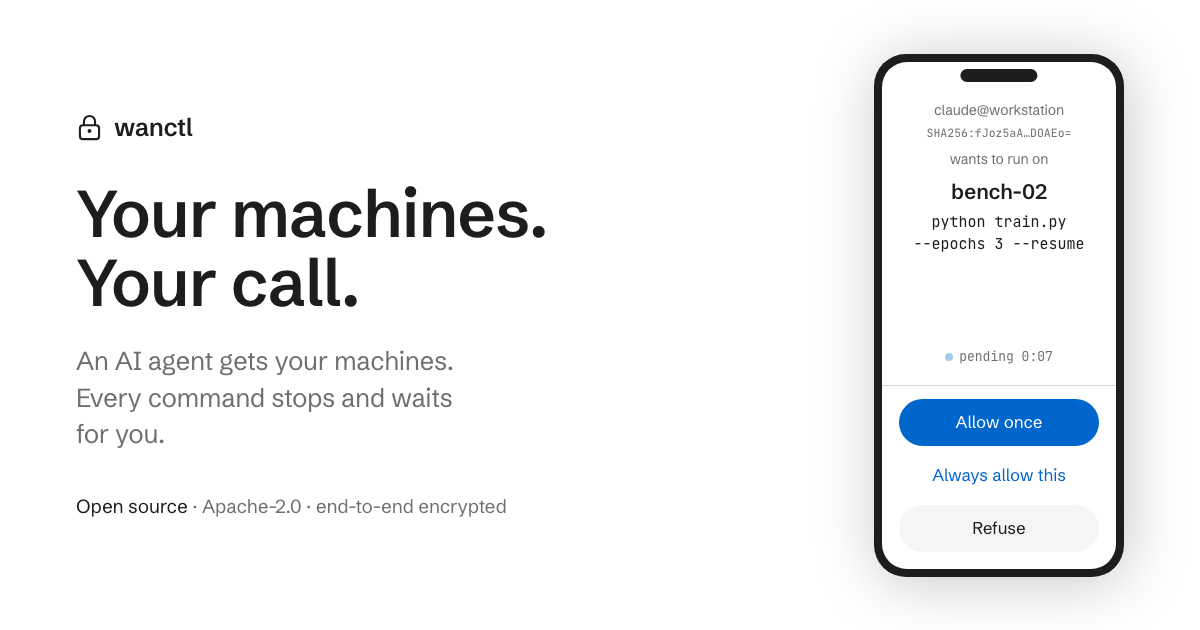
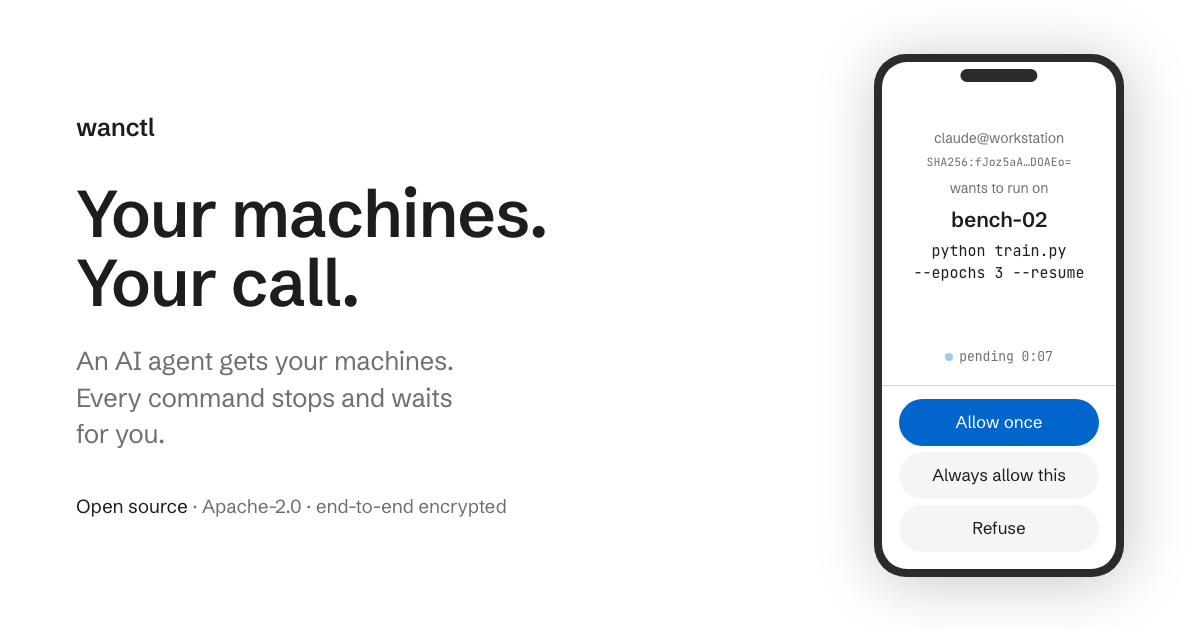
site: one proposition, two doors, and no padlock
Three things the owner asked for.

**Weight.** Every section carried 88px of vertical padding, so the product's
actual proposition — nothing runs until you say yes — got exactly as much
visual budget as a list of six machines. Three tiers now: the proposition takes
roughly 1.4x the space and a 52px heading, the objection-killer stays as it
was, and the inventory drops to 60px and a 32px heading.

The proposition also earned something to say with the extra room. Underneath
it, spanning both columns, is the rule the hero demo has been acting out on
every single run and the page had never once stated: a rule covers a command,
not a machine. Sign `python train.py --epochs 3 --resume --seed 7` and it runs
without asking; ask for `nvidia-smi` and it comes back to you. Two columns of
text cannot fill 1440px. That can.

**Two doors.** A visitor who installs the binary had nowhere to point it. The
hosted relay and a compose file, side by side — a genuine 50/50, because the
two options really are equivalent, and because it is a third shape that stops
the alternating rows from running on into a metronome. The hosted door
deliberately has no application form: that flow is issue #9, and whether
applications are public is the owner's call, not something to settle by
building one door handle. The address is its handle for now.

**The mark.** The padlock is gone — the most obvious icon a security product
can reach for. Three replacements were drawn and rendered at 16 through 72
[…]

Changed region(s): [[0.7708, 0.1508, 0.8942, 0.4524], [0.7708, 0.7238, 0.8942, 0.7841], [0.0617, 0.181, 0.1542, 0.2413]]

diff --git a/site/assets/app.css b/site/assets/app.css
@@ -96,6 +96,17 @@ a:hover{text-decoration:underline}
 /* 首屏顶上已经有导航条了，不需要再来一整份上留白 ——
    省下来的高度给舞台，好让手机上那个蓝按钮落在折线以上（它是要人去点的东西）。 */
 .tile.hero{padding-top:clamp(32px,3.6vw,52px)}
+
+/* 三档配额，不是五段等权。之前每一段的上下内边距都是 88px，于是产品的命题
+   （「你不点头，什么都不会跑」）和一张设备清单拿到完全相同的视觉权重。
+     chapter 命题   —— 双倍空间，标题接近 hero 尺度，下面还有一条通栏的收尾
+     （默认）二级   —— 消解疑虑的那一屏，维持原样
+     minor   清单   —— 压紧，标题降一档；它只是在说「有哪些机器」 */
+.tile.chapter{padding-top:clamp(72px,8.6vw,124px);padding-bottom:clamp(58px,6.4vw,88px)}
+.tile.chapter h2{font-size:clamp(34px,4.8vw,52px);line-height:1.06;letter-spacing:-.3px}
+.tile.minor{padding:clamp(38px,4.4vw,60px) var(--pad)}
+.tile.minor h2{font-size:clamp(24px,2.6vw,32px)}
+.tile.minor .lead{font-size:clamp(17px,1.35vw,18px);max-width:36ch}
 .tile.dark{background:var(--dark);color:var(--on-dark)}
 .tile.grey{background:var(--canvas-2)}
 
@@ -129,9 +140,8 @@ h2{
   border-bottom:1px solid var(--hairline);
   font-size:14px;letter-spacing:-.2px;
 }
-.nav .brand{display:flex;align-items:center;gap:8px;color:var(--ink);font-weight:600;font-size:17px}
+.nav .brand{color:var(--ink);font-weight:600;font-size:17px;letter-spacing:-.4px;flex:none}
 .nav .brand:hover{text-decoration:none}
-.nav .brand svg{display:block;flex:none}
 .nav .links{display:flex;gap:clamp(13px,2vw,26px);margin-left:auto}
 .nav .links a{color:var(--ink-2);white-space:nowrap}
 .nav .links a:hover{color:var(--ink);text-decoration:none}
@@ -348,6 +358,35 @@ h2{
 .ledger .cap{font-size:14px;color:var(--ink-2)}
 .ledger code{font-size:15px;color:var(--ink);white-space:pre;overflow-x:auto;display:block;min-width:0}
 
+/* ── 章节收尾：通栏的两行，讲策略的语义 ──────────────────────────────
+   两列文字撑不满 1440，但这条能 —— 而且它讲的是首屏 demo 每一轮都在演、
+   页面上却从没写出来的那件事。 */
+.lesson{
+  margin-top:clamp(30px,3.2vw,44px);padding-top:clamp(22px,2.3vw,30px);
+  border-top:1px solid rgba(255,255,255,.14);grid-column:1 / -1;
+}
+.lesson .claim{margin:0 0 20px;font-size:clamp(19px,1.9vw,24px);font-weight:600;
+               letter-spacing:-.374px;color:var(--on-dark)}
+/* 表格自己收窄。撑满 1440 会把判定推到 600px 开外，
+   于是刚在整页上治好的「两边空」在这一小块里原样复发。 */
+.lesson ul{list-style:none;margin:0;padding:0;max-width:860px}
+.lesson li{
+  display:flex;align-items:baseline;gap:clamp(14px,2vw,28px);
+  padding:13px 0;font-size:15px;
+}
+.lesson li+li{border-top:1px solid rgba(255,255,255,.09)}
+.lesson .k{flex:0 0 clamp(88px,9vw,132px);color:var(--on-dark-2)}
+.lesson code{flex:1 1 auto;min-width:0;color:var(--on-dark);letter-spacing:0;
+             overflow-wrap:break-word}
+.lesson .v{flex:0 0 auto;color:var(--on-dark-2);text-align:right;white-space:nowrap}
+
+@media (max-width:760px){
+  .lesson li{flex-wrap:wrap;gap:4px 14px;padding:12px 0}
+  .lesson .k{flex:0 0 auto}
+  .lesson code{flex:1 0 100%;order:3;font-size:13.5px}
+  .lesson .v{margin-left:auto}
+}
+
 /* ── 安装 ──────────────────────────────────────────────────────────── */
 /* 分段控件：选中项填蓝。蓝是这套系统里唯一的「这个是活的」信号，
    而这里选中与否直接决定下面那条命令，含糊不得。 */
@@ -389,8 +428,31 @@ h2{
   line-height:1.45;text-wrap:pretty;
 }
 
+/* ── 两扇门 ────────────────────────────────────────────────────────
+   不用卡片：那道投影按 DESIGN.md 只归「产品渲染」。两扇门用发丝线分隔，
+   读起来像一份规格表，而不是两张促销卡。 */
+#relay .say{max-width:46rem}
+#relay .lead{margin-left:0;max-width:52ch}
+.doors{
+  display:grid;grid-template-columns:repeat(2,minmax(0,1fr));
+  gap:clamp(30px,4.4vw,72px);margin-top:clamp(34px,4vw,56px);
+}
+.door{border-top:1px solid var(--hairline);padding-top:20px;display:flex;flex-direction:column}
+.door .k{font-size:14px;color:var(--ink-2)}
+.door .addr{margin:9px 0 0;font-size:clamp(19px,1.7vw,22px);letter-spacing:-.2px;color:var(--ink)}
+.door .addr a{color:var(--ink)}
+.door .addr a:hover{color:var(--blue);text-decoration:none}
+.door .d{margin:12px 0 0;font-size:16px;line-height:1.5;color:var(--ink-2);max-width:38ch}
+.door .link-arrow{margin-top:18px;align-self:flex-start;font-size:16px}
+
+@media (max-width:760px){
+  .doors{grid-template-columns:minmax(0,1fr);gap:26px}
+  #relay .say{max-width:none}
+}
+
 /* ── 页脚 ──────────────────────────────────────────────────────────── */
-.foot{background:var(--canvas-2);padding:40px var(--pad) 44px;font-size:14px;
+.foot{background:var(--canvas);border-top:1px solid var(--hairline);
+      padding:40px var(--pad) 44px;font-size:14px;
       color:var(--ink-2);line-height:1.6}
 /* 页脚链接跟随导航条的语法（灰→黑），不是蓝：它们是路标，不是号召 */
 .foot .flinks{display:flex;flex-wrap:wrap;gap:9px 26px;margin-bottom:22px}

diff --git a/site/index.html b/site/index.html
@@ -30,14 +30,9 @@
 <body>
 
 <header class="nav">
-  <a class="brand" href="/">
-    <svg width="20" height="20" viewBox="0 0 22 22" aria-hidden="true">
-      <path d="M6.5 9.2V6.1a4.5 4.5 0 0 1 9 0v3.1" fill="none" stroke="currentColor" stroke-width="1.7"/>
-      <rect x="3.2" y="9.2" width="15.6" height="11.3" rx="2.4" fill="none" stroke="currentColor" stroke-width="1.7"/>
-      <circle cx="11" cy="13.9" r="1.6" fill="currentColor"/>
-    </svg>
-    wanctl
-  </a>
+  <!-- 字标单独站着。之前那把挂锁是安全类产品最不动脑子的选择，
+       换成另一个弱符号不如把它减掉 —— 字标本身已经有形。 -->
+  <a class="brand" href="/">wanctl</a>
   <nav class="links">
     <a href="#decide"  data-en="How it works" data-zh="怎么工作">How it works</a>
     <a href="#fleet" data-opt data-en="Devices" data-zh="设备">Devices</a>
@@ -84,7 +79,7 @@
   </section>
 
   <!-- 深色屏：审批凭证。主体在右 —— 那是「你」的回答，落在首屏手机所在的那一侧 -->
-  <section class="tile dark split" id="decide">
+  <section class="tile dark split chapter" id="decide">
     <div class="say">
     <h2 data-en="Nothing runs until you say yes."
         data-zh="你不点头，什么都不会跑。">Nothing runs until you say yes.</h2>
@@ -104,11 +99,31 @@
       <div class="body" id="cred"></div>
     </div>
     </div>
+
+    <!-- 通栏收尾：这条是整个产品最常被误解的地方，而且首屏 demo 每次都在演它，
+         之前页面上却一个字都没写。移植自 internal/policy 的 matchCommand。 -->
+    <div class="lesson">
+      <p class="claim"
+         data-en="A rule covers a command, not a machine."
+         data-zh="规则管的是一条命令，不是一台机器。">A rule covers a command, not a machine.</p>
+      <ul>
+        <li>
+          <span class="k" data-en="Signed once" data-zh="签过一次">Signed once</span>
+          <code class="mono">python train.py --epochs 3 --resume --seed 7</code>
+          <span class="v" data-en="runs without asking" data-zh="以后直接放行">runs without asking</span>
+        </li>
+        <li>
+          <span class="k" data-en="Anything else" data-zh="换成别的">Anything else</span>
+          <code class="mono">nvidia-smi --query-gpu=memory.used --format=csv</code>
+          <span class="v" data-en="asks you again" data-zh="还是会来问你">asks you again</span>
+        </li>
+      </ul>
+    </div>
   </section>
 
   <!-- 浅灰屏：设备列表。主体在左 —— 那是 wanctl peers 的输出，
        控制端看的东西，落在首屏笔记本所在的那一侧 -->
-  <section class="tile grey split flip" id="fleet">
+  <section class="tile grey split flip minor" id="fleet">
     <div class="say">
     <h2 data-en="Your fleet, in one list." data-zh="你的机器，一张表看完。">Your fleet, in one list.</h2>
     <p class="lead"
@@ -209,6 +224,47 @@
       <button id="copy" type="button" data-en="Copy" data-zh="复制">Copy</button>
     </div>
     <p class="note" id="srcnote">Straight from the GitHub release.</p>
+  </section>
+
+  <!-- 浅灰屏：装完连到哪儿。两扇门是真正等价的两个选择，所以这里用一次
+       诚实的 50/50 —— 而且它和上面的交替两栏是不同的形状，节奏不会延续成节拍器。 -->
+  <section class="tile grey" id="relay">
+    <div class="say">
+      <h2 data-en="One relay in the middle. Ours, or yours."
+          data-zh="中间那台 relay。我们的，或者你自己的。">One relay in the middle. Ours, or yours.</h2>
+      <p class="lead"
+         data-en="Every device dials one relay, and it never sees inside your sessions either way. We run one. The whole thing is also a compose file."
+         data-zh="每台设备都拨向一台 relay，而无论用哪台，它都看不见你会话的内容。我们跑了一台；整套东西也就是一个 compose 文件。">
+        Every device dials one relay, and it never sees inside your sessions
+        either way. We run one. The whole thing is also a compose file.
+      </p>
+    </div>
+
+    <div class="doors">
+      <div class="door">
+        <span class="k" data-en="Hosted" data-zh="我们跑的那台">Hosted</span>
+        <p class="addr mono"><a href="https://wanctl.z10.dev">wanctl.z10.dev</a></p>
+        <p class="d"
+           data-en="Invite-only while it is one person&#39;s server rather than a service. No SLA, no support queue, no charge."
+           data-zh="它现在还是一个人的服务器，不是一项服务，所以只能邀请进。没有 SLA，没有工单，也不收钱。">
+          Invite-only while it is one person's server rather than a service.
+          No SLA, no support queue, no charge.
+        </p>
+      </div>
+
+      <div class="door">
+        <span class="k" data-en="Your own" data-zh="你自己的那台">Your own</span>
+        <p class="addr mono">docker compose up</p>
+        <p class="d"
+           data-en="Relay, portal and Postgres in one compose file. Nothing about your fleet ever reaches a machine you do not own."
+           data-zh="relay、门户和 Postgres 在同一个 compose 文件里。你的设备信息不会到达任何一台不属于你的机器。">
+          Relay, portal and Postgres in one compose file. Nothing about your
+          fleet ever reaches a machine you do not own.
+        </p>
+        <a class="link-arrow" href="https://github.com/Daily-AC/wanctl/blob/main/docs/self-hosting.md"
+           data-en="Read the self-hosting guide" data-zh="看自部署指南">Read the self-hosting guide</a>
+      </div>
+    </div>
   </section>
 
 </main>

diff --git a/tools/og.html b/tools/og.html
@@ -30,14 +30,7 @@
 <body>
 <div class="card">
   <div class="col">
-    <div class="brand">
-      <svg width="27" height="27" viewBox="0 0 22 22" aria-hidden="true">
-        <path d="M6.5 9.2V6.1a4.5 4.5 0 0 1 9 0v3.1" fill="none" stroke="currentColor" stroke-width="1.7"/>
-        <rect x="3.2" y="9.2" width="15.6" height="11.3" rx="2.4" fill="none" stroke="currentColor" stroke-width="1.7"/>
-        <circle cx="11" cy="13.9" r="1.6" fill="currentColor"/>
-      </svg>
-      wanctl
-    </div>
+    <div class="brand">wanctl</div>
     <h1>Your machines.<br>Your call.</h1>
     <p>An AI agent gets your machines. Every command stops and waits for you.</p>
     <div class="tag"><b>Open source</b> · Apache-2.0 · end-to-end encrypted</div>

diff --git a/docs/design/HANDOFF.md b/docs/design/HANDOFF.md
@@ -42,8 +42,9 @@ last-reviewed: 2026-09-04
 
 `site/` 全站 332K（含 4 个自托管 woff2）。零构建、零依赖、纯静态。
 
-- `site/index.html` — 六段：首屏（白）→ 审批凭证（深）→ 设备列表（浅灰）→
-  **身份核对（深）** → 安装（白）→ 页脚
+- `site/index.html` — 七段：首屏（白，海报）→ **命题·审批凭证（深，chapter）**
+  → 设备列表（浅灰，minor）→ 身份核对（深，居中打断）→ 安装（白，海报）
+  → **两扇门（浅灰，50/50）** → 页脚（白）
 - `site/assets/app.css` — 苹果语法：单一 Action Blue、字号阶 56/40/17、负字距、
   无 500 字重、整幅 tile 颜色变化即分隔线、唯一投影只给三个「产品渲染」
 - `site/assets/app.js` — 首屏双屏里跑的活 demo（终端 + 手机审批），`window.__demo` 验收接口
@@ -134,6 +135,19 @@ GitHub。机制在 `internal/relay/dist.go` 的 `installerHandler` + `WANCTL_PUB
 主体落哪边就说明它属于谁。
 
 判断单位是**一对**不是一屏（看一屏看不出交替），所以那次一起改了凭证和设备表两屏。
+
+## 3.9 权重重排 + 两扇门 + 换标（09-04 傍晚）
+
+- **权重**：五段等权改成三档（chapter / 默认 / minor），规则进 `DESIGN.md` 第 5 节。
+  命题那一屏加了一条通栏收尾，写死「规则管一条命令，不是一台机器」——
+  首屏 demo 每轮都在演，页面上原先一个字没写。
+- **两扇门**（`#relay`）：官方实例 `wanctl.z10.dev`（邀请制）与自部署并置。
+  **左边那扇门故意没有申请入口**——申请流程是 issue #9，而"申请是否公开"这件事
+  甲方还没拍板，在这儿硬造一个入口等于替他把板拍了。地址本身是它的把手。
+  #9 落地后把 CTA 补进 `.door` 即可，位置留好了。
+- **换标**：挂锁退役，改成纯字标；favicon 是画成路径的 `w`。理由见 `DESIGN.md` 6.2。
+  **改了标记要重跑 `tools/og.sh`**（分享卡片里也有字标）。
+- 页脚跟着两扇门那屏（浅灰）翻成白底 + 一条发丝线。
 
 ## 4. 已验证的事实（别重测）
 
